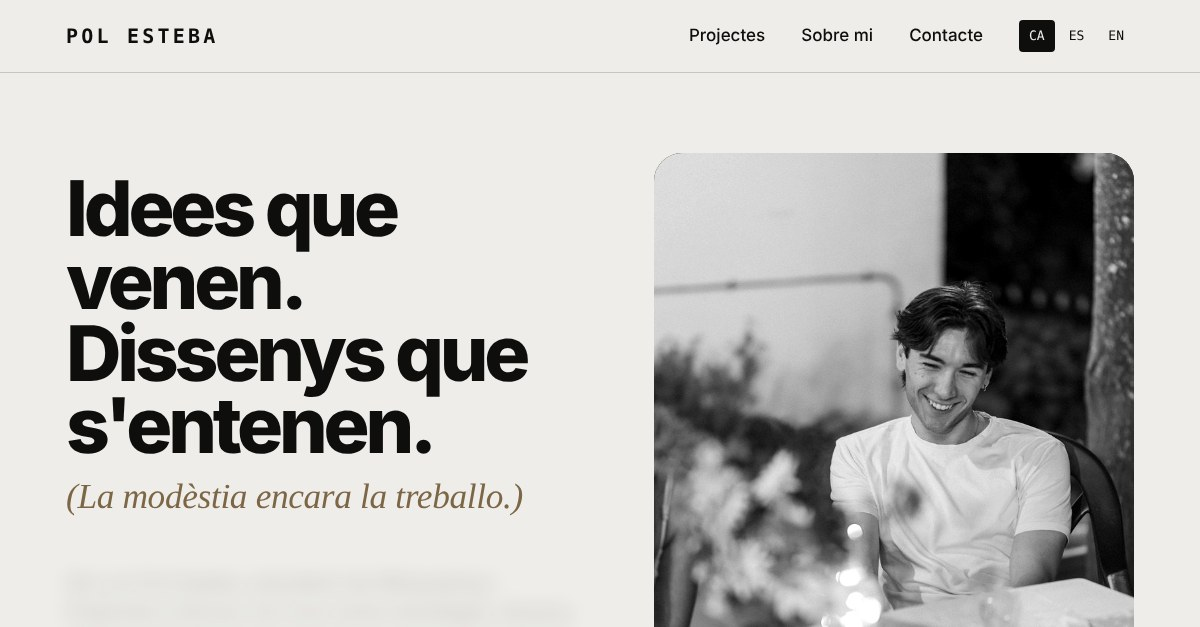
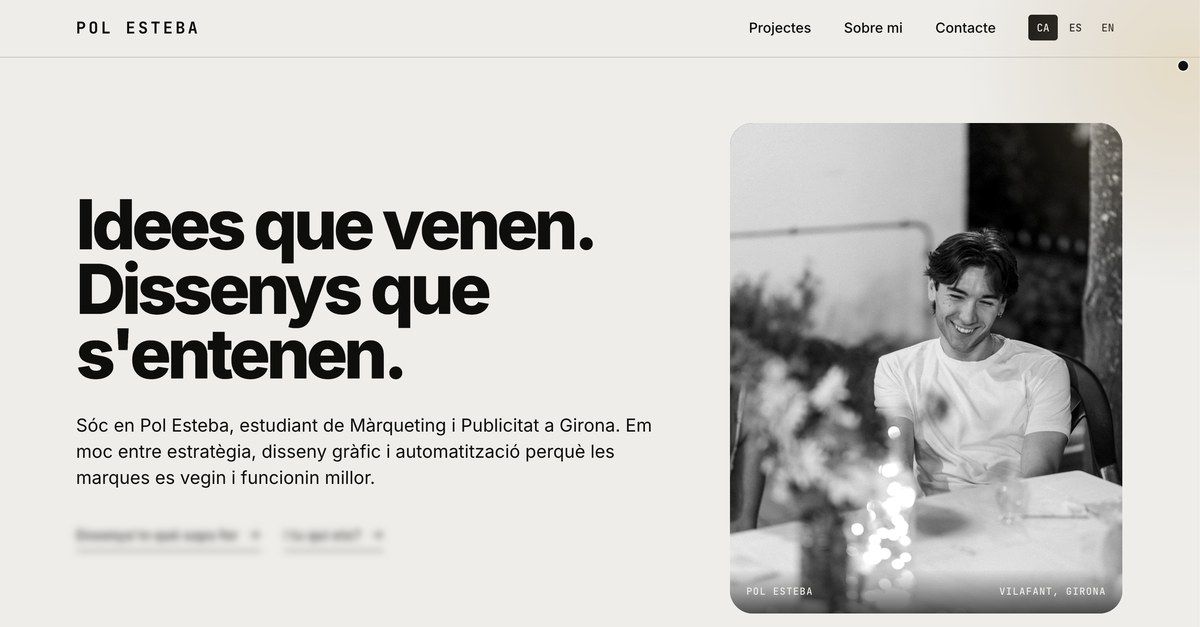
Nova imatge de previsualització i títol "Portfoli-Pol Esteba"
Claude-Session: https://claude.ai/code/session_011LFtuuACFTaXrnhF9EJMwa

diff --git a/index.html b/index.html
@@ -3,11 +3,11 @@
 <head>
 <meta charset="utf-8">
 <meta name="viewport" content="width=device-width, initial-scale=1">
-<title>Portfolio Pol Esteba</title>
+<title>Portfoli-Pol Esteba</title>
 <meta name="description" content="Portfoli de Pol Esteba: projectes de màrqueting, publicitat i disseny gràfic.">
 <meta property="og:type" content="website">
 <meta property="og:site_name" content="Portfoli Pol Esteba">
-<meta property="og:title" content="Portfoli de Pol Esteba">
+<meta property="og:title" content="Portfoli-Pol Esteba">
 <meta property="og:description" content="Projectes de màrqueting, publicitat i disseny gràfic.">
 <meta property="og:url" content="https://esm3ba-stack.github.io/Portfoli/">
 <meta property="og:image" content="https://esm3ba-stack.github.io/Portfoli/preview.jpg">
